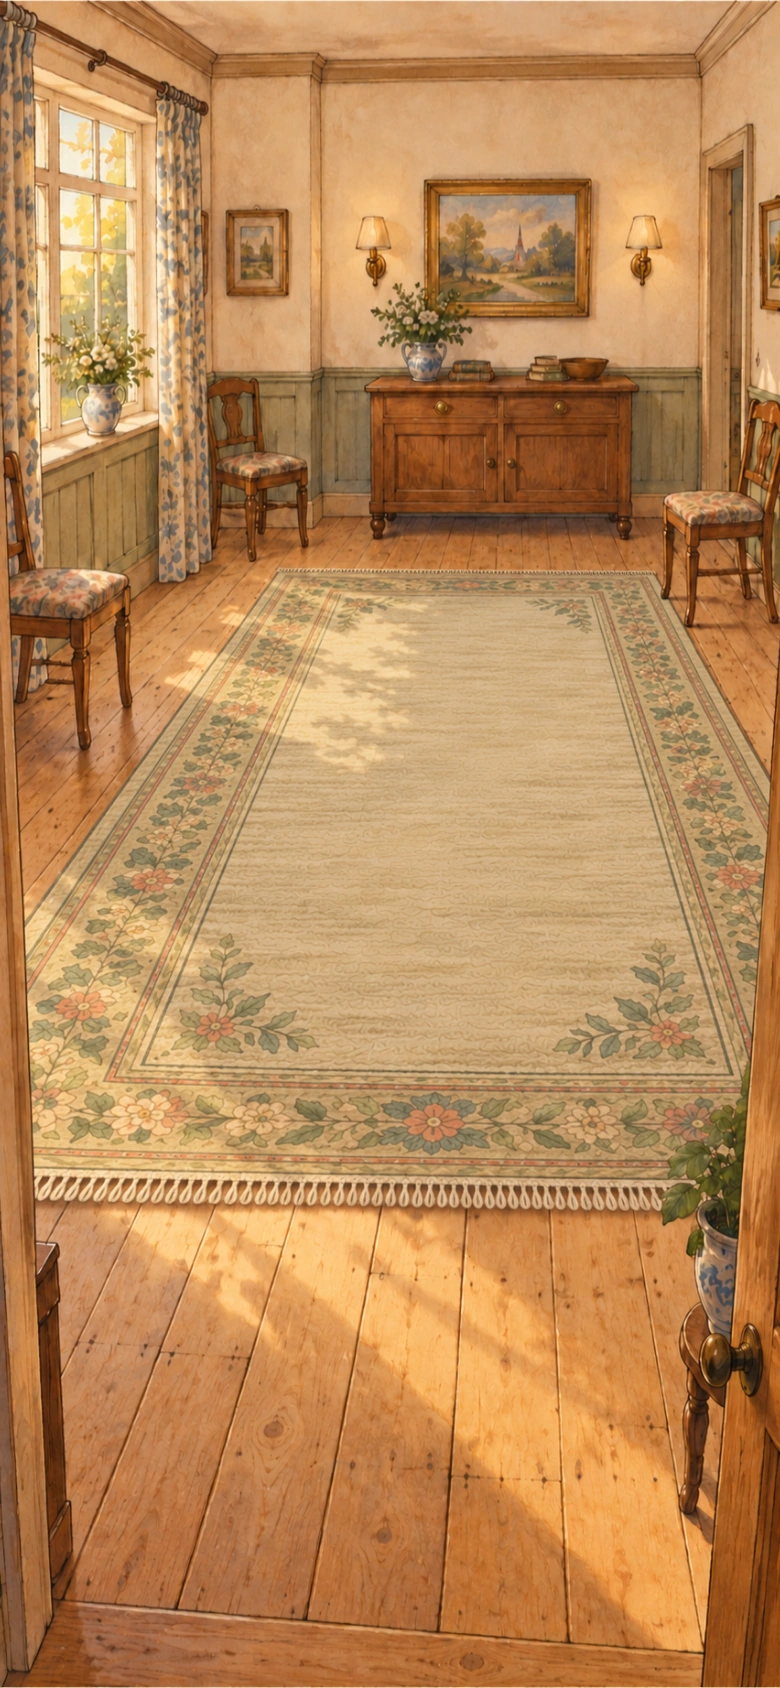
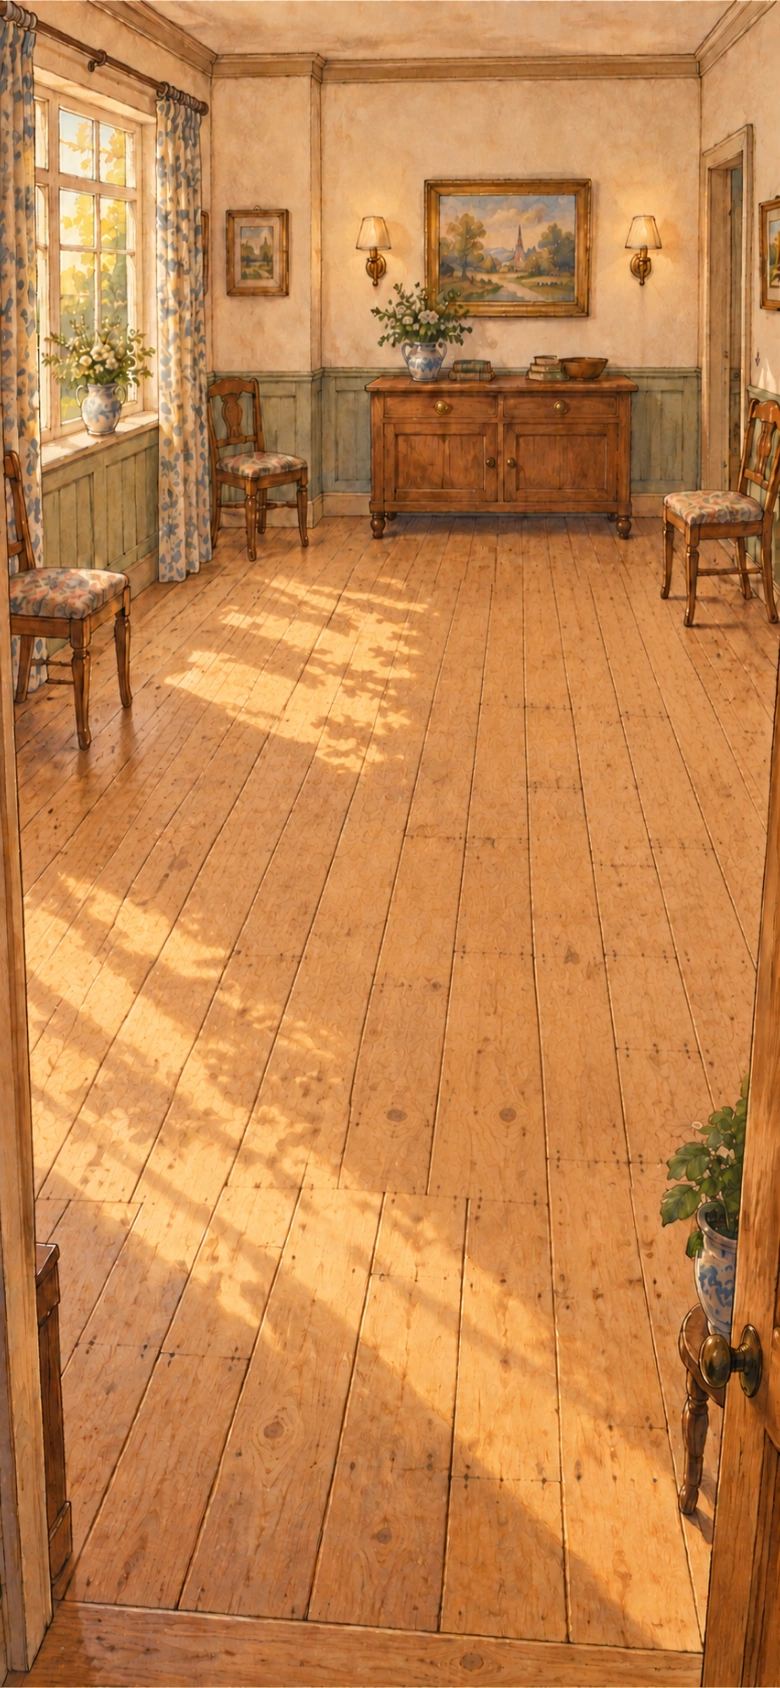
Remove the rug from the Cookbook dining room

diff --git a/projects/cookbook-study/rework-art/README.md b/projects/cookbook-study/rework-art/README.md
@@ -10,7 +10,7 @@ The current runtime collection contains 54 images: 29 standalone icons, five bac
 
 - Twenty-nine current standalone food/tool illustrations, including butter spread across both bread slices, a chef’s knife, sliced cucumber and finger sandwiches, tea bags, cups of water and tea, apple juice with a correctly scaled cut apple, and an unbaked Alaska. Sauces remain in the same saucepan. Noodles have plain butter or toasted crumbs; ravioli and its brown butter include sage leaves. Mushroom filling connects ravioli with Wellington, whose raw, seared, coated, wrapped and baked states remain distinct.
 - Fixed stations combine approved pencil drawings with newly generated equipment. Breakfast, Dairy and Wellington backgrounds contain their stations; transparent receiving images avoid drawing them twice. A kettle replaces the parlour hob and is scaled to the painted sideboard. The mushroom pan and freezing churn remain separate fixed drawings. Their receiving geometry is independent of standalone food and tool sizing.
-- Five backgrounds: revised Breakfast and Dairy, new Wellington, a home parlour and a home dining room. A painted tea table supports the stand’s initial position. The dining room leaves space for the movable dining table.
+- Five backgrounds: revised Breakfast and Dairy, new Wellington, a home parlour and a home dining room. A painted tea table supports the stand’s initial position. The dining room leaves bare wooden floor for the movable dining table.
 - Two compound bases with fourteen fitted layers. Afternoon tea has six servings: cucumber finger sandwiches, scones, brown-butter biscuits, jam roll, whipped cream and jam. The cream pot sits behind the jam jar, which has no spoon. Dinner has eight separate servings, accommodating either cake or both. Its dishes were composed with the table in the room; the final table follows a construction sketch registered to the room’s perspective.
 
 ## Size audit and corrections
@@ -43,7 +43,7 @@ The audit also found the dinner table’s steep viewpoint and short legs made it
 
 For dinner, the [laden room composition](sources/dining-room-laden.png) establishes the table and exactly eight dishes together. The image generator separately isolated an [empty table](sources/dining-table-from-laden.png) and [each fitted dish](sources/fitted-dinner/). Targeted generated repairs removed herb flecks from Wellington and restored dark ganache between the chocolate cake layers. The [generation record](serving-generation.json) records these inputs, selections and repairs; [registration](serving-registration.json) records their final placement. Tea follows the same whole-composition method. The [accepted stand](sources/tea-stand-service.png) puts biscuits around the top post, one scone with cream and jam on the middle tier, and the roll with three plate-free sandwiches below. All six [fitted servings](sources/fitted-tea/) were extracted separately and registered back onto the original empty stand. The user retained this sandwich arrangement after rejecting a later orientation attempt.
 
-The table extraction was superseded after an informed geometry review found that it had symmetrized the tabletop: its rear edge was centred above the front edge, losing the room composition’s offset. The rug, floor and cornice establish a vanishing region right of the image centre, approximately (570, 250) in the 853×1844 room. A [construction sketch](sources/dining-table-construction.svg) supplied the corrected silhouette for the [selected table](sources/dining-table-constructed.png). Its receding sides and plank seams converge with the room after registration, and the fitted dishes rest on the surface. A further generated repair removed the exposed rear-leg stubs from the [preceding version](sources/dining-table-before-leg-repair.png): at this viewing angle, the rear feet are correctly occluded by the tabletop and apron. The first rug edit left too little clearance outside the legs. A wider [guided background edit](sources/dining-rug-wide-guide.png) provides room for chairs on both sides and toward the viewer. Its [construction geometry](dining-rug-geometry.json) retains the room’s vanishing point and centres the intended footprint beneath the front feet; the rug continues beyond the room crop where necessary. These were informed perspective and support reviews, not fresh recognition trials.
+The table extraction was superseded after an informed geometry review found that it had symmetrized the tabletop: its rear edge was centred above the front edge, losing the room composition’s offset. The construction used an approximate vanishing region right of centre, (570, 250) in the 853×1844 room reference. A [construction sketch](sources/dining-table-construction.svg) supplied the corrected silhouette for the [selected table](sources/dining-table-constructed.png). The construction guided its receding sides and plank seams against the room; the fitted dishes rest on the surface. A further generated repair removed the exposed rear-leg stubs from the [preceding version](sources/dining-table-before-leg-repair.png): at this viewing angle, the rear feet are correctly occluded by the tabletop and apron. The rug revisions did not resolve the user’s perspective concerns, despite the supplied construction guides and informed review. The [selected background](sources/dining-room-bare-floor.png) therefore removes the rug entirely and continues the wooden flooring. The existing table, dishes and their registration remain unchanged. Earlier rug paintings and guides are retained as generation inputs and superseded construction work; they are not the current design direction. These were informed visual reviews, not fresh recognition trials.
 
 | Family | Provenance and geometry | Export command from repository root |
 |---|---|---|

diff --git a/projects/cookbook-study/verification.md b/projects/cookbook-study/verification.md
@@ -22,7 +22,7 @@ Check ordinary entry as well as developer checkpoints. Inspect the proofing shel
 
 For afternoon tea, exercise the early preparation goals in Dairy and Home-made bread: whipped cream and cucumber finger sandwiches must be complete before tea. Verify all six fittings—sandwiches, scones, biscuits, jam roll, cream and jam—and confirm that serving cream, jam roll and jam preserves their later uses. The cream pot belongs behind the spoon-free jam jar, together with one whole scone on the middle tier. Biscuits occupy the top tier; the generously sized roll and three plate-free sandwiches occupy the bottom tier. Compare the fitted layers with the accepted whole-stand composition. Check the stand at its authored 50%, 44% starting centre on the painted tea table, on short phones as well as desktop. Judge the fixed kettle against the sideboard and room, using its [station registration](rework-art/production/stations-and-pages.json), not the standalone ingredient scale; its independent receiving target must remain comfortable to touch. Brew a cup before and after filling the stand, keeping the cup separate and requiring no serving-location placement.
 
-For dinner, inspect furniture and fitted foods in the shared room composition. Each dish must sit on the tabletop at its perspective and scale, with coherent contact and without floating plates or overlapping servings that obscure another dish. Check the rug is centred beneath the feet at the authored starting position. Test empty, partial and complete table states, both cake alternatives, and ordinary advancement into Dinner as well as checkpoint arrival; loose dishes must fit clear of the table. Exercise the alternative configurations with `--chapters=36 --dinner-cakes=chocolate` and `--chapters=36 --dinner-cakes=both`. These alter only the diagnostic planner’s target; every browser gesture still uses the live story’s legal recipes. Verify short phones and desktop, reload stability, and that the final chapter retains the filled table.
+For dinner, inspect furniture and fitted foods in the shared room composition. Each dish must sit on the tabletop at its perspective and scale, with coherent contact and without floating plates or overlapping servings that obscure another dish. Check the bare floor is continuous beneath the table, without remnants of the removed rug, and judge the table against the room at its authored starting position. Test empty, partial and complete table states, both cake alternatives, and ordinary advancement into Dinner as well as checkpoint arrival; loose dishes must fit clear of the table. Exercise the alternative configurations with `--chapters=36 --dinner-cakes=chocolate` and `--chapters=36 --dinner-cakes=both`. These alter only the diagnostic planner’s target; every browser gesture still uses the live story’s legal recipes. Verify short phones and desktop, reload stability, and that the final chapter retains the filled table.
 
 For gallery changes, verify responsive columns, all displayed image choices and playable links. The curated galleries link to standalone PNGs and live current chapters. Historical comparison manuscripts and their extracted assets are intentionally retired. Rebuild galleries with `node projects/cookbook-study/tools/build-galleries.mjs` after changing the collection.
 

diff --git a/stories/cookbook/design-brief.md b/stories/cookbook/design-brief.md
@@ -36,6 +36,6 @@ Keep a physically informed size hierarchy. At the 390×844 reference viewport, s
 
 Each cooking chapter has a faint background associated with its culinary subject. Loose thematic border art runs along the top; a shallow, connected culinary spread occupies the bottom, leaving a broad quiet working field. Avoid isolated decorative objects that resemble draggable ingredients. Use shared dishes, utensils, overlapping forms and food traces. Let substantial foreground forms continue beyond the bottom edge rather than leaving a blank strip below a complete still life. Keep the sides open and allow cropping. Vary pale work surfaces, including cool marble for pastry; use tablecloths sparingly.
 
-Afternoon tea and Dinner are places rather than cookbook pages: a home parlour and a home dining room. Furnish the full scene while retaining quiet working surfaces. The tea stand starts safely on its painted table, with room around its feet. The kettle rests on the sideboard at the room’s scale. The dining table is the movable compound, so the background leaves its floor space open. Centre a generously sized rug beneath the table’s default footprint, allowing room for chairs on both sides. Preserve the room’s perspective when sizing or moving it. These places should feel hospitable and provide a reward for the cooking.
+Afternoon tea and Dinner are places rather than cookbook pages: a home parlour and a home dining room. Furnish the full scene while retaining quiet working surfaces. The tea stand starts safely on its painted table, with room around its feet. The kettle rests on the sideboard at the room’s scale. The dining table is the movable compound, so the background leaves its floor space open. Use exposed wooden flooring beneath the dining table. Keep the floor continuous with the surrounding room and preserve its perspective. These places should feel hospitable and provide a reward for the cooking.
 
 Fixed cooking stations use spare monochrome pencil drawings, distinct from the coloured movable food. Keep each chapter to at most two hotspots. The fruit press and churns are fixed apparatus; breakfast uses a simple cookstove. Centre a single station above the working area and separate pairs. Where one stove drawing represents hob and oven, saucepan work belongs toward the top and baking toward the lower part. Do not print station names into the painting; normal game feedback supplies them. Give receiving targets comfortable room around the equipment and register room furniture to the actual supporting surface.

diff --git a/notes.md b/notes.md
@@ -797,3 +797,7 @@ Follow-up play and artwork review revised early tea preparation, kettle brewing,
 At the user’s request, Cookbook-specific lasting intent now belongs in [stories/cookbook/design-brief.md](stories/cookbook/design-brief.md), replacing earlier notes’ attribution of that material to UX. Settlement’s existing visual brief was relocated on the same principle. The icon guide owns reusable illustration and background methods; UX owns interface behaviour. Research and production history stay in the ongoing project. Discovery reserves the companion brief filename. The format specification clarifies guaranteed compound painting order: base first, then slots in declaration order, independent of filling order and reload.
 
 The final implementation suite passed 162 Node and 120 browser tests; the build passed with existing warnings. Current arrivals, asset loading, changed recipes and serving interactions were checked, with scope and limits in [study outcomes](projects/cookbook-study/outcomes.md#recipe-scale-and-serving-revisions). The layout fallback fixes preserve size and authored furniture positions instead of shrinking art to relieve crowding. The user’s earlier instruction to commit and push remains the publication authority for this work; no unrelated host or access setting changes.
+
+## 1 November 2026 — Remove the dining-room rug
+
+The user rejected the carpet perspective after the latest widening and asked to try removing it entirely. A targeted built-in image-generation edit continues the exposed wooden floor through the former rug area. The selected background and Cookbook design brief now use bare flooring; the movable table, fitted dishes, positions and recipes are unchanged. The exact request and source are retained in the [art collection](projects/cookbook-study/rework-art/README.md). Four desktop/phone dinner and closing arrivals, plus one phone dinner assembly with reload and advancement, passed. Visual inspection covered empty and completed tables. Earlier rug perspective assurances are superseded by the user’s finding; detailed verification output is disposable.

diff --git a/projects/cookbook-study/outcomes.md b/projects/cookbook-study/outcomes.md
@@ -2,6 +2,12 @@
 
 These summaries record the development decisions of 1 November 2026. Run inputs and outputs have been discarded. They are not replayable evidence or automatic validation of later changes; use the [instructions](verification.md) for new work.
 
+## Dining room without the rug
+
+The user found the carpet’s perspective lines still wrong after the wider-rug revision and requested trying its removal. The selected background now continues the wooden floor through that area. The table, fitted dishes, authored positions and manuscript remain unchanged. The design brief and production selection now describe the bare floor; previous rug sources remain as superseded generation inputs.
+
+Four dinner/closing arrival checks passed across desktop and phone, and one phone interaction case passed seven fittings, reload and advancement. Empty and completed table views received visual inspection. Only the dining-room runtime image changed; this artwork edit did not require a new full implementation suite. The preceding guided edits and automated geometry checks did not establish satisfactory carpet perspective; the user’s contrary visual finding supersedes that assessment.
+
 ## Recipe, scale and serving revisions
 
 The subsequent revision keeps 38 chapters and replaces the remaining dish-list captions with concise subjects and three sparse culinary principles. Cream and cucumber sandwiches are prepared in Dairy and Home-made bread, and the jam roll precedes Afternoon tea. Tea uses a sideboard kettle and tea bags. A chef’s knife replaces the bread knife; ravioli is finished with herb brown butter in the pan. Unbaked Alaska is assembled before baking. Icing and the completed chocolate cake belong to their preparation chapter. Dinner receives finished dishes and supports either cake or both.
